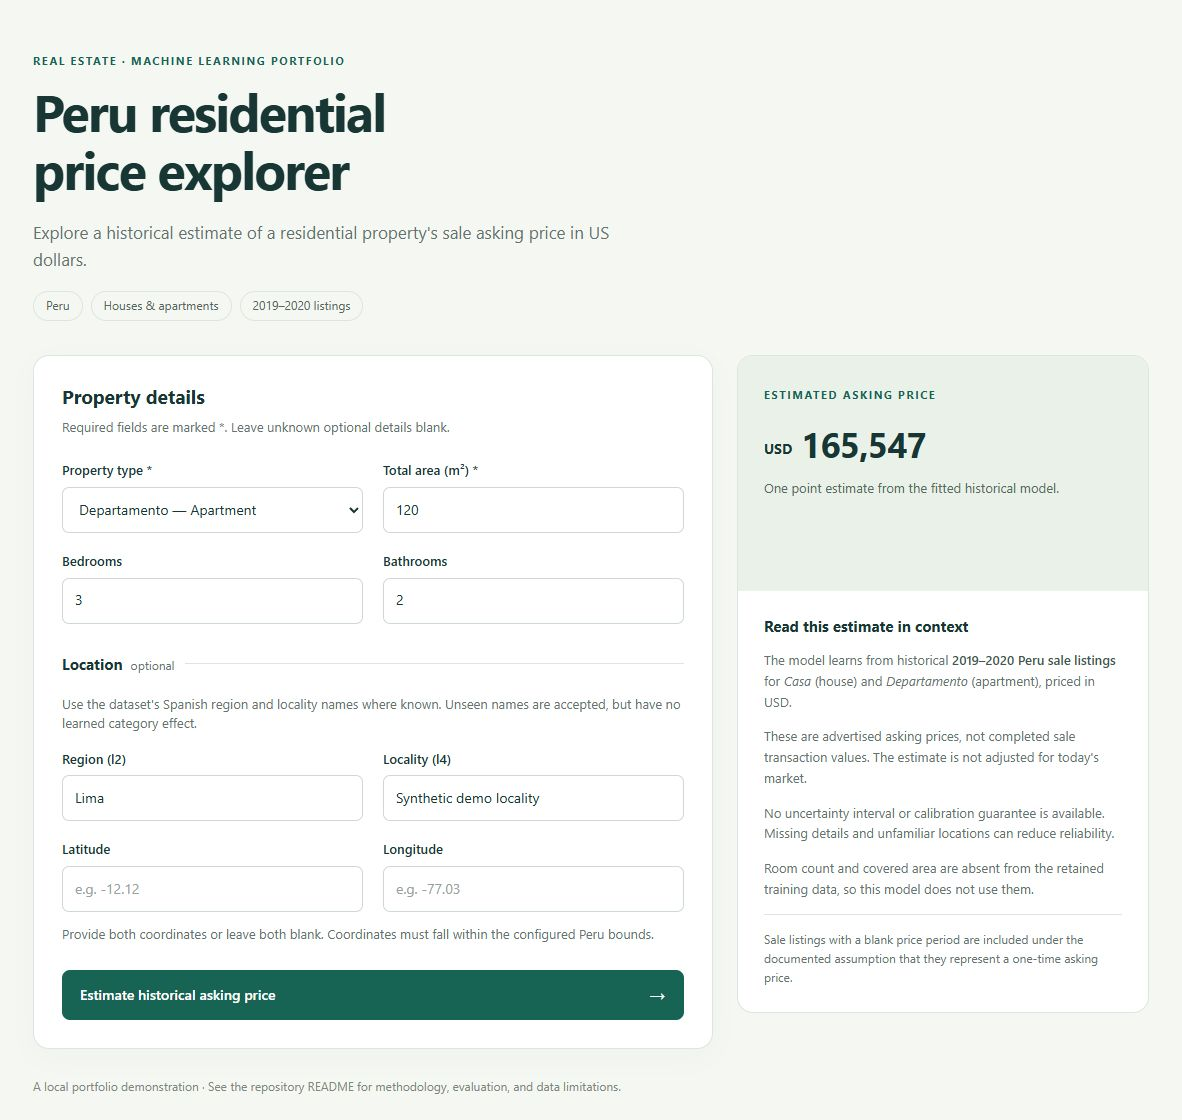
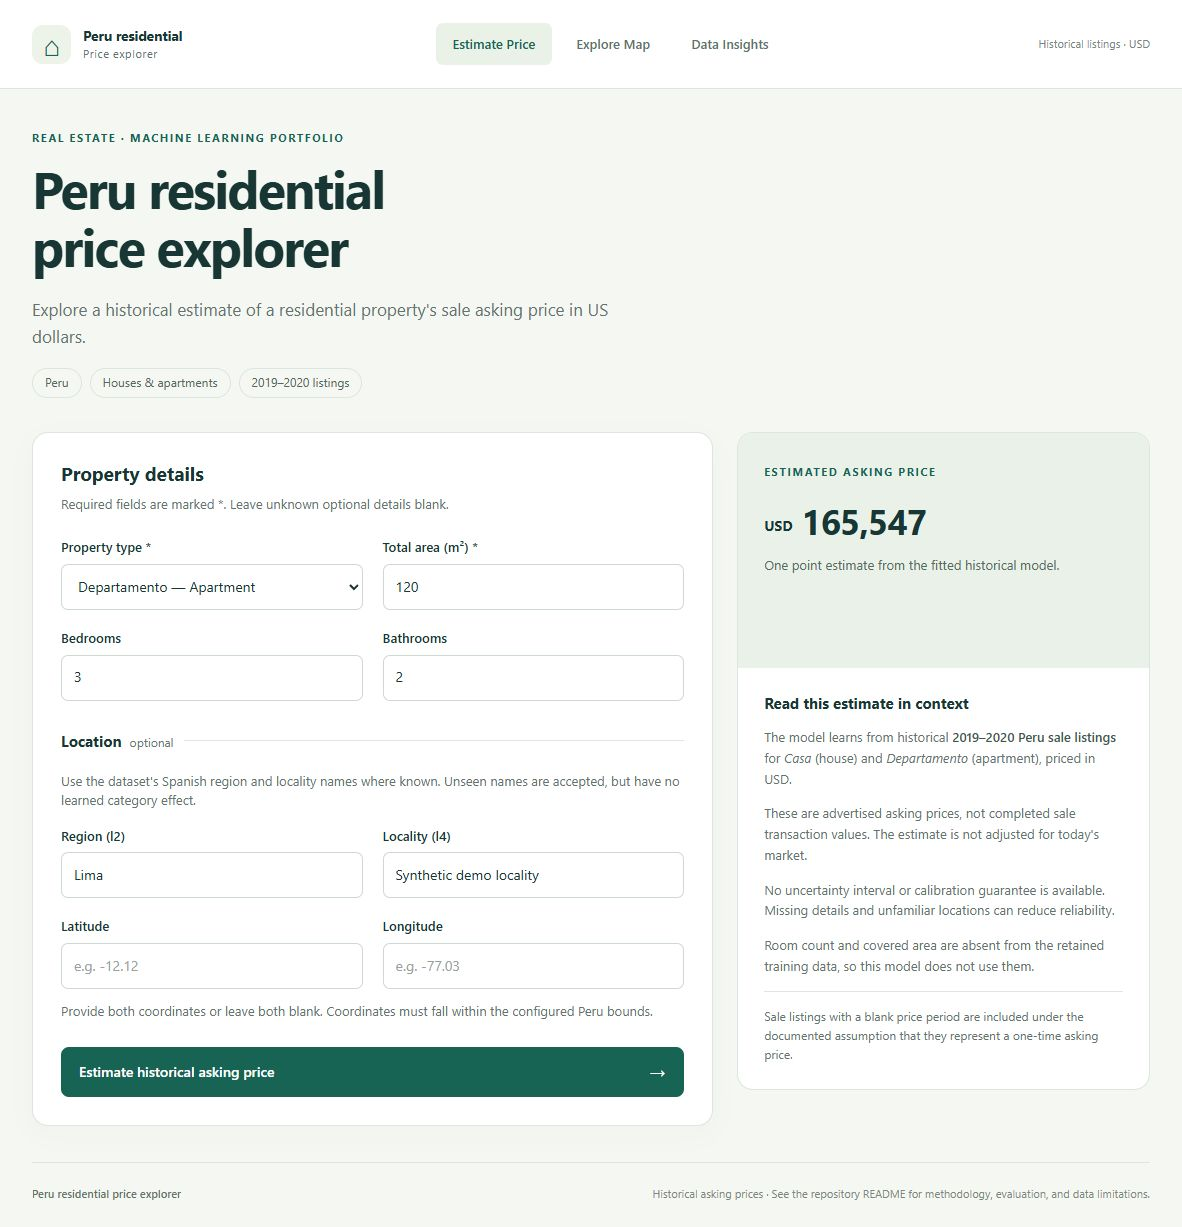
docs: document unified app local artifacts and verified publication scope

diff --git a/docs/verification.md b/docs/verification.md
@@ -1,31 +1,43 @@
 # Verification and publication review
 
-Performed locally on Windows, Python 3.14.7, 2026-10-05. Nothing was pushed or published.
+Verified locally on Windows with Python 3.14.7, 2026-10-05. The application retains the existing fitted pipeline and verified experiment; exploration work did not retrain or change it. Nothing was pushed or published.
+
+## Preserved model evidence
+
+The recorded training run completed four fixed candidates, three training-only group CV folds, validation selection, development refit, serialization, reload, and evaluation on 2,195 held-out rows. Training and validation contain 6,625 and 2,209 rows. The selected Random Forest pipeline remains 4,887,387 bytes. Held-out MAE is $90,684.97, RMSE $728,516.72, and R² 0.1423. These limitations remain visible in the README and dashboard.
+
+Explorer preparation independently verified the source hash, saved model/run metadata, every split's row/group counts, final predictions from the loaded pipeline, and metrics recalculated from those arrays. Saved validation-stage permutation scores are distinguished from final held-out results. No legacy notebook score, residual plot, or impurity-importance image was reused.
+
+## Application and data checks
 
 | Check | Evidence / outcome |
 |---|---|
-| Environment | Created a new empty `.venv`; installed the declared requirements; recorded exact direct/transitive runtime/test pins; reinstalled to validate direct pins. `pip check` passed. |
-| Clean public export | Exported only committed files to a disposable directory; created a separate empty environment; installed the final exact requirements; verified imports resolved to the exported source. `pip check` and **112 tests** passed (6.89 seconds). Missing private artifact correctly returned health HTTP 503. No raw data, original archive, or model was in this export. |
-| Core checks | `python -m compileall -q src scripts` and `git diff --check` passed. |
-| Automated behavior tests | `python -m pytest`: **112 passed**, working repository run 2.84 seconds and separate clean-export run 6.89 seconds. Synthetic fixtures need neither raw dataset nor pretrained model. |
-| Full real-data training | All four candidates completed three training-only CV folds and validation scoring on the final supported scope. Selected Random Forest was refitted on development data, serialized, reloaded, and evaluated on 2,195 test rows. |
-| Artifact | Compressed complete pipeline: 4,887,387 bytes. Serialization/inference equality tested. Missing, corrupt, unfitted, and schema/library-incompatible artifacts fail safely. |
-| Final consistency | After the repeated-ID guard was added, final partitions and stored model metrics were recomputed and matched the recorded results without refitting. Supplied source IDs are unique. |
-| Flask startup | `python -m real_estate.web` started on 127.0.0.1:5000 with debug/reloader disabled. HTML, CSS, and health returned HTTP 200. |
-| Live API | Three invented properties produced finite positive estimates ($165,546.51, $227,259.16, $105,367.76). Five invalid requests returned 400: negative area, unsupported type, incomplete coordinate pair, boolean count, obsolete room field. |
-| Additional app behavior | Tests exercise forms, malformed/non-object JSON, body size limits, input escaping, missing model 503, and safe unexpected-error responses. |
-| Browser | Actual form submitted with invented details and omitted coordinates, producing $165,547 when rounded for display. Saved screenshot is public and contains no real listing. |
-| Data preparation | Script extracted and SHA-256-verified the CSV from the original ZIP to a disposable temporary directory. Existing correct file is left alone; different existing content is refused. |
-| Portability | Default model prediction and training CLI import/help succeeded from the parent working directory. Tests also change working directory. No original notebook/artifact/dataset-driven app dropdown is required. |
-| Notebook | Generated clean optional EDA notebook; JSON/schema inspected, outputs cleared. Notebook was not executed interactively. |
-| CI | Configured Windows/Linux, Python 3.12/3.14, dependency installation, package consistency, compilation, and synthetic tests. Remote matrix not executed because nothing was pushed. |
+| Preserved tests | All 112 earlier tests remain; no pipeline/inference tests were removed. |
+| New tests | 93 exploration/analytics regressions cover filters, privacy allowlists, sanitized labels, paired rounded coordinates, pagination, artifact caching/reload, missing/corrupt files, full-tail histograms, medians/counts, pairwise correlations, sample bounds/extrema, and mismatched evaluation metadata/predictions. |
+| Complete suite | **205 tests passed** in the working repository (7.31 seconds). Fixtures require neither real data nor a pretrained model. |
+| Clean public export | Exported committed application/test code (`000488b`) into a disposable directory, created an independent empty Python 3.14.7 environment, and installed exact requirements. Its own source imported correctly; `pip check`, compilation, 14 vendor hashes, and **205 tests passed** (7.67 seconds). Private CSV, model, explorer JSON, test predictions, and original archives were absent. Three pages and all 20 vendor/app assets returned 200; missing-data/model APIs returned safe 503 and debug was disabled. Subsequent edits concern documentation/screenshots only. |
+| Prepared scope | 11,029 retained listings, 23 reported regions, median price $198,000, median area 140 m², 3,777 Casa and 7,252 Departamento. All six values independently matched existing `prepare_data` output. |
+| Map completeness | 10,707 mappable coordinate pairs and 322 missing-coordinate listings. Browser loaded all six API pages and reported the complete map population. Missing coordinates never become fabricated locations. |
+| Model consistency | Explorer export rechecked predictions from the exact saved pipeline and included verified evaluation. Model size and held-out metrics stayed unchanged. |
+| Missing-data browser | Both exploration pages displayed safe setup guidance with missing private artifacts; chart/summary values cleared instead of displaying stale results. The map showed the preparation command. |
+| Flask startup | `python -m real_estate.web` runs on 127.0.0.1:5000 with debugger/reloader disabled. All three pages and local CSS/JavaScript assets load. |
+| Estimator browser | Invented Departamento, 120 m², 3 bedrooms, 2 bathrooms, Lima, unseen demo locality, no coordinates: form displayed USD 165,547, matching the preserved pipeline's earlier result. |
+| Map browser | Hover showed price/type/area/counts/location; click populated richer details with approximate coordinate labels and Unknown missing values. Casa + Lima matched 2,447 listings / 2,367 mapped points. Empty search cleared points; reset restored all results. Cluster clicks zoomed into points. No JavaScript warnings/errors observed. |
+| Insights browser | Eleven interactive plots rendered. Hover labels, log views, Casa filtering, empty/reset recovery, invalid filter states, and fixed global test diagnostics checked. Casa filtering produced 3,777 listings, median $287,000 and 240 m²; model scores stayed fixed. Undefined correlations remain blank with paired-count context. |
+| Responsive layout | Insights checked at 390 × 844: no horizontal page overflow, charts stayed within cards, summaries used two columns and evaluation cards one column. Map interaction verified at ordinary desktop width. |
+| Core/package checks | `pip check`, `compileall`, and `git diff --check` passed. Fourteen pinned vendor downloads passed offline SHA-256/size verification. Git attributes preserve exact vendor bytes across Windows checkouts. |
+| Publication scan | Scanned the candidate Git tree for credential/token/private-key patterns, user-specific Windows paths, debug enabled, private data/model/archive/environment files, oversized artifacts, and notebook outputs. No actual secret, private listing text, personal path, or output-bearing notebook found. The largest file is licensed Plotly.js, 4,763,993 bytes. Dataset contact fields are excluded; vendor author/license contacts are legitimate third-party notices. |
+| Notebook | Optional notebook remains output-free; professional text and cell IDs replaced internal workflow terms. It was not executed interactively. |
+| CI | Windows/Linux × Python 3.12/3.14 matrix includes dependency installation, package consistency, compilation, offline vendor verification, and synthetic tests. Remote CI has not run because nothing was pushed. |
 
-Windows virtual-environment creation, dependency installation, training, tests, and app startup were executed. Activation is optional; all verification used the explicit `.venv\Scripts\python.exe` executable, so it does not depend on the user's PowerShell execution policy. Other Python/OS combinations are CI targets, not locally verified claims.
+The earlier verified archive extractor remains unchanged: it extracts only the expected CSV, checks SHA-256, preserves existing matching content, and refuses different content. Default paths remain portable. Activation is optional; verification uses the explicit virtual-environment executable without requiring an execution-policy change.
 
-The public candidate tree was scanned for common credential/token/private-key patterns, user-specific absolute paths, debug enabled, binary datasets/models, large files, and notebook outputs. No actual credential, personal path, enabled debugger, model binary, private dataset, or output-bearing notebook was found. This is a scoped publication review, not a proof that every conceivable secret pattern is absent.
+## Public contents
 
-`git check-ignore` confirmed raw CSV, final fitted model, individual test predictions, and environment metadata are excluded. Raw free text has email-like and phone-like content and source coordinates; all source/processed records and old notebook outputs remain private. Only aggregate experiment figures/summary and an invented-property screenshot are tracked. The raw collection license and source attribution remain unconfirmed; no data or model redistribution rights are asserted.
+Raw CSVs, processed point-level JSON, fitted models, individual test predictions, original ZIPs, environments, caches, and temporary verification/demo files remain ignored. Public map screenshots use generated fictional properties with demo locality labels. The dashboard screenshot contains aggregate summaries/distributions; the estimator screenshot uses invented input. Reviewed aggregate evaluation figures and summary remain under `docs/results/`.
 
-The original archives remain outside the newly initialized repository. No unrelated repository was modified. Git history records Phase 2 work as it happened; no remote was configured. No LICENSE was fabricated. The owner may choose a code license after checking original ownership/attribution; this would not license the dataset.
+Source schema details, attribution, and redistribution rights remain **Not confirmed from the provided source code/data.** Coordinate rounding reduces precision but does not anonymize listings or grant publication rights. The documented app binds to localhost; publishing its code does not authorize deployment of private data endpoints.
 
-The repository is ready for **code-only portfolio publication**, with the README assumptions and performance limitations retained. There are no remaining implementation blockers for the documented local workflow. Data/model publication requires a separate rights/privacy review. Current-market valuation, source-schema confirmation, future-time/spatial performance, and calibrated uncertainty remain outside the verified scope.
+Current files use professional project language. Earlier Git commits were preserved with their original messages; history was not rewritten. No collaborators, experiments, or historical contributions were invented. Third-party libraries retain their licenses. A project code license requires the owner's attribution/ownership decision and would not license the dataset.
+
+The code is intended for portfolio publication with its stated data-access requirements and performance limitations. Current-market valuation, confirmed target/unit semantics, temporal/spatial generalization, and calibrated uncertainty remain outside the verified scope.

diff --git a/docs/exploration.md b/docs/exploration.md
@@ -1,0 +1,72 @@
+# Exploration data, charts, and API
+
+The estimator, map, and insights pages share a Flask application and navigation. Prediction continues through the saved fitted pipeline. Exploratory preparation calls the existing deterministic `read_raw` and `prepare_data` functions; it does not fit preprocessing, refit a model, or change evaluation partitions.
+
+## Local preparation
+
+After authorized data restoration and model training:
+
+```powershell
+python -m real_estate.prepare_explorer
+```
+
+Defaults resolve against the repository, including when invoked from another directory. Explicit paths are supported:
+
+```powershell
+python -m real_estate.prepare_explorer --data "C:\path\to\your.csv" --output data/processed/explorer.json --model models/pipeline.joblib --evaluation artifacts/evaluation.json --predictions artifacts/test_predictions.csv
+```
+
+The ignored JSON contains a schema version, source SHA-256, scope, generation date, retained-row count, coordinate precision, allowlisted listings, and an evaluation block. An atomic replacement prevents half-written artifacts. The exporter validates the complete artifact, including nested evaluation fields, before saving it. It does not publish data. A fresh public clone contains the code and instructions, rather than data or a fitted model.
+
+Missing evaluation inputs allow exploration to work with model diagnostics explicitly unavailable. When supplied, saved evaluation data must agree with the source hash, fitted model metadata, deterministic split, and predictions recomputed with that exact pipeline. Stored test metrics are checked against the verified test arrays. A mismatch produces the same safe unavailable state, without falling back to historical scores. Regenerate the explorer after a new training run.
+
+## Privacy and scope
+
+Each record contains only `price_usd`, `surface_total`, `bedrooms`, `bathrooms`, `property_type`, `l2`, `l4`, `lat`, and `lon`. There are no source IDs, descriptions, titles, dates, street addresses, sellers, accounts, names, emails, or phone fields. Administrative labels containing control characters, email-like content, long phone-like digit sequences, or excessive length become unknown. Coordinates are rounded to 0.01 degrees and explicitly displayed as approximate.
+
+The original residential scope remains authoritative: Peru, Venta, USD, blank payment period, Casa/Departamento, positive finite price, and total area between 10 and 10,000 m². Invalid optional values become missing through existing preparation rules. Listings without valid paired coordinates remain in analytics and are counted separately; they never become fabricated map points. Broad coordinate bounds cannot prove that a point lies within Peru.
+
+Point-level data and test arrays remain local and ignored by Git. Coordinate rounding is not anonymization or permission to redistribute records. Bind the app to localhost for the documented workflow. Any deployment exposing these endpoints needs a separate rights/privacy decision.
+
+Leaflet scripts, styles, MarkerCluster, and Plotly are served from pinned local assets. The basemap requests tiles from OpenStreetMap, which receives the browser's IP address and requested map tiles. It does not receive the listing JSON from this application. Tile loading requires internet; the app's filters, charts, data requests, and markers use the local Flask server. Preserve visible attribution and follow the [OpenStreetMap tile policy](https://operations.osmfoundation.org/policies/tiles/); no offline tile downloading is implemented.
+
+## Routes and filters
+
+| Route | Behavior |
+|---|---|
+| `/` | Estimate form using the complete saved pipeline |
+| `/explore` | Clustered listing map and property details |
+| `/insights` | Interactive analytics and fixed model diagnostics |
+| `POST /api/predict` | Existing strict prediction contract |
+| `GET /api/listings` | Bounded page of mapped records and completeness counts |
+| `GET /api/insights` | Filtered aggregates, bounded scatter, fixed evaluation |
+| `GET /api/options?l2=Lima` | Region and region-scoped locality options |
+| `GET /health` | Fitted model readiness; independent of exploration readiness |
+
+Both exploratory APIs accept `property_type`, `l2`, `l4`, `q`, `min_price`, `max_price`, `min_area`, `max_area`, `bedrooms`, and `bathrooms`. Exact category/count filters and inclusive numeric ranges are applied by Python. `q` searches administrative labels literally, case-insensitively. Text is bounded to 100 characters, counts must be integers from 0 to 50, prices nonnegative finite numbers, areas within the project scope, and minimums cannot exceed maximums. Unknown/repeated parameters and invalid values return safe HTTP 400 errors. Missing/corrupt explorer artifacts return safe 503 errors referring to README setup; the map also displays the preparation command. Unexpected errors are logged server-side and return a generic 500.
+
+`/api/listings` additionally uses `limit` (1–2,000; default 2,000) and `offset` (0–250,000), returning `next_offset`, total matching count, mappable count, missing-coordinate count, and returned count. The map retrieves all pages, verifies completeness, and adds markers in batches between animation frames. It aborts stale requests and discards incomplete failed results. Numbered clusters zoom/spiderfy into individual points. Hover previews show asking price, type, total area, counts, and region/locality. Click details add the rounded coordinate pair; missing fields display Unknown.
+
+The shared parser also accepts pagination parameters for insights, but they do not reduce aggregate populations. Dashboard UI does not send them. Options accept only optional `l2`.
+
+## Analytical story
+
+All summary cards and exploratory charts reflect the selected records. Price and area histograms use their full observed ranges without tail clipping. The optional log price view uses geometric bin edges in actual USD. Type counts use only Casa/Departamento. Regional comparisons rank listing counts and show median asking prices, with population counts available on hover. Missing region labels are displayed as Unknown.
+
+The price–area scatter uses at most 2,000 deterministically sampled records, explicitly labels sampling, and preserves minimum/maximum price and area observations. It is a display sample; summaries and histograms use every selected listing. Scatter hover contains only allowlisted property/context fields. Pearson correlations use valid area, bedroom/bathroom counts, rounded latitude/longitude, and raw USD price, with pairwise available observations. Hover reports paired counts. Undefined correlations remain blank. No categorical numeric codes or removed historical variables are included. Correlation does not imply causation.
+
+Final held-out predicted-vs-actual, residual scatter, and residual histogram use every verified test prediction. Residual means actual minus predicted USD, so positive values indicate underestimation. Linear/log prediction axes are optional. Evaluation is independent of exploration filters: filtering listings must not change a reported test population or score.
+
+Permutation importance displays the saved validation-stage scores for the selected pipeline, measured before its development refit, with standard-deviation error bars. It is not new importance measured on the final test set. Shuffling correlated features can share importance or create implausible combinations; the chart describes predictive reliance, not causal effects. Old notebook importance images and obsolete scores are excluded.
+
+## Performance and dependencies
+
+The raw CSV is processed once during preparation. HTTP requests read a schema-validated derived artifact, cached by modification time and size, and maintain a bounded 32-response cache that resets on artifact replacement. Artifact size is limited to 100 MB and 250,000 listings; each map response contains at most 2,000 points. The map uses [Leaflet 1.9.4](https://leafletjs.com/reference.html) and [MarkerCluster 1.5.3](https://github.com/Leaflet/Leaflet.markercluster). Charts use Plotly.js 3.1.0. No additional Python runtime dependency or paid API is required.
+
+Vendor files, licenses, URLs, sizes, and SHA-256 hashes are recorded in `static/vendor/manifest.json`. Verify them offline with:
+
+```powershell
+python scripts/vendor_frontend.py --verify
+```
+
+Maintainers can deliberately redownload the pinned assets with `python scripts/vendor_frontend.py`; normal installation and application startup do not contact JavaScript CDNs.

diff --git a/data/README.md b/data/README.md
@@ -1,6 +1,6 @@
 # Local data only
 
-Expected file: `data/raw/pe_properties_crude.csv` (UTF-8 CSV). The local deliverable already contains the single raw copy extracted without modifying either original archive. It is ignored by Git. A fresh clone requires you to obtain authorized access to the original data; no public download or redistribution license was confirmed.
+Expected file: `data/raw/pe_properties_crude.csv` (UTF-8 CSV). The private development environment used a single verified raw copy extracted without modifying either original archive. The public repository excludes it. A fresh clone requires authorized data access; no public download or redistribution license was confirmed.
 
 You may restore the CSV from either historical ZIP with:
 
@@ -17,4 +17,6 @@ Required columns: `id, operation_type, currency, price_period, l1, price, surfac
 
 Publication review found 85 rows with email-like text, 13,337 rows with phone-like text patterns (heuristic, not confirmed phone numbers), and 101,026 coordinate pairs. Names and addresses may also occur in free text; absence of these has not been established. No raw or processed records, private text, precise coordinates, or source notebook outputs are included in the public Git tree. No real sample is published; tests use generated synthetic fixtures.
 
-Code reproducibility does not grant data redistribution rights. Review any future dataset or artifact release separately.
+`python -m real_estate.prepare_explorer` creates ignored `data/processed/explorer.json` using the same deterministic residential scope and deduplication rules as training. It keeps only validated price/area/type/counts, sanitized region/locality, and coordinates rounded to two decimals. It includes verified held-out predictions only when the source, fitted model, evaluation report, and prediction file agree. Missing coordinates remain in aggregate analytics but are omitted from map points. See [exploration architecture](../docs/exploration.md).
+
+Code reproducibility does not grant data redistribution rights. Keep point-level exploration data local and review any future release separately.

diff --git a/artifacts/README.md b/artifacts/README.md
@@ -1,5 +1,5 @@
 # Generated experiment output
 
-`python -m real_estate.train` writes evaluation metadata, three aggregate figures, and local per-listing test predictions here. All generated outputs are ignored by Git. Reviewed aggregate figures and the experiment summary from the verified Phase 2 run are copied to `docs/results/` for the portfolio. The private `test_predictions.csv` is never copied there.
+`python -m real_estate.train` writes evaluation metadata, three aggregate figures, and local per-listing test predictions here. All generated outputs are ignored by Git. Reviewed aggregate figures and the verified experiment summary are copied to `docs/results/`. The private `test_predictions.csv` is never copied there. The explorer export verifies these predictions against the saved fitted pipeline before including them in the local dashboard artifact.
 
 Every run reports filtering counts, split counts, random seed, raw CSV hash, candidate CV and validation scores, selected model, held-out results, package versions, artifact size, and validation permutation importance. Changing data or dependencies creates a new experiment; do not reuse the checked-in result claims without updating the reviewed summary.

diff --git a/models/README.md b/models/README.md
@@ -1,6 +1,6 @@
 # Fitted pipeline
 
-`pipeline.joblib` is generated by `python -m real_estate.train`. It contains the complete fitted estimator, raw feature contract, schema version, experiment metadata, and library versions. The local deliverable includes the newly trained artifact. Git excludes all model binaries regardless of size.
+`pipeline.joblib` is generated by `python -m real_estate.train`. It contains the complete fitted estimator, raw feature contract, schema version, experiment metadata, and library versions. A fitted artifact was used in the private verification environment; the public repository excludes all model binaries regardless of size. Fresh clones must train locally.
 
 The app starts without a model: `/health` and predictions return safe HTTP 503 responses, and the form gives the training command. Train first for useful predictions. Restart the app after replacing an already loaded model.
 
